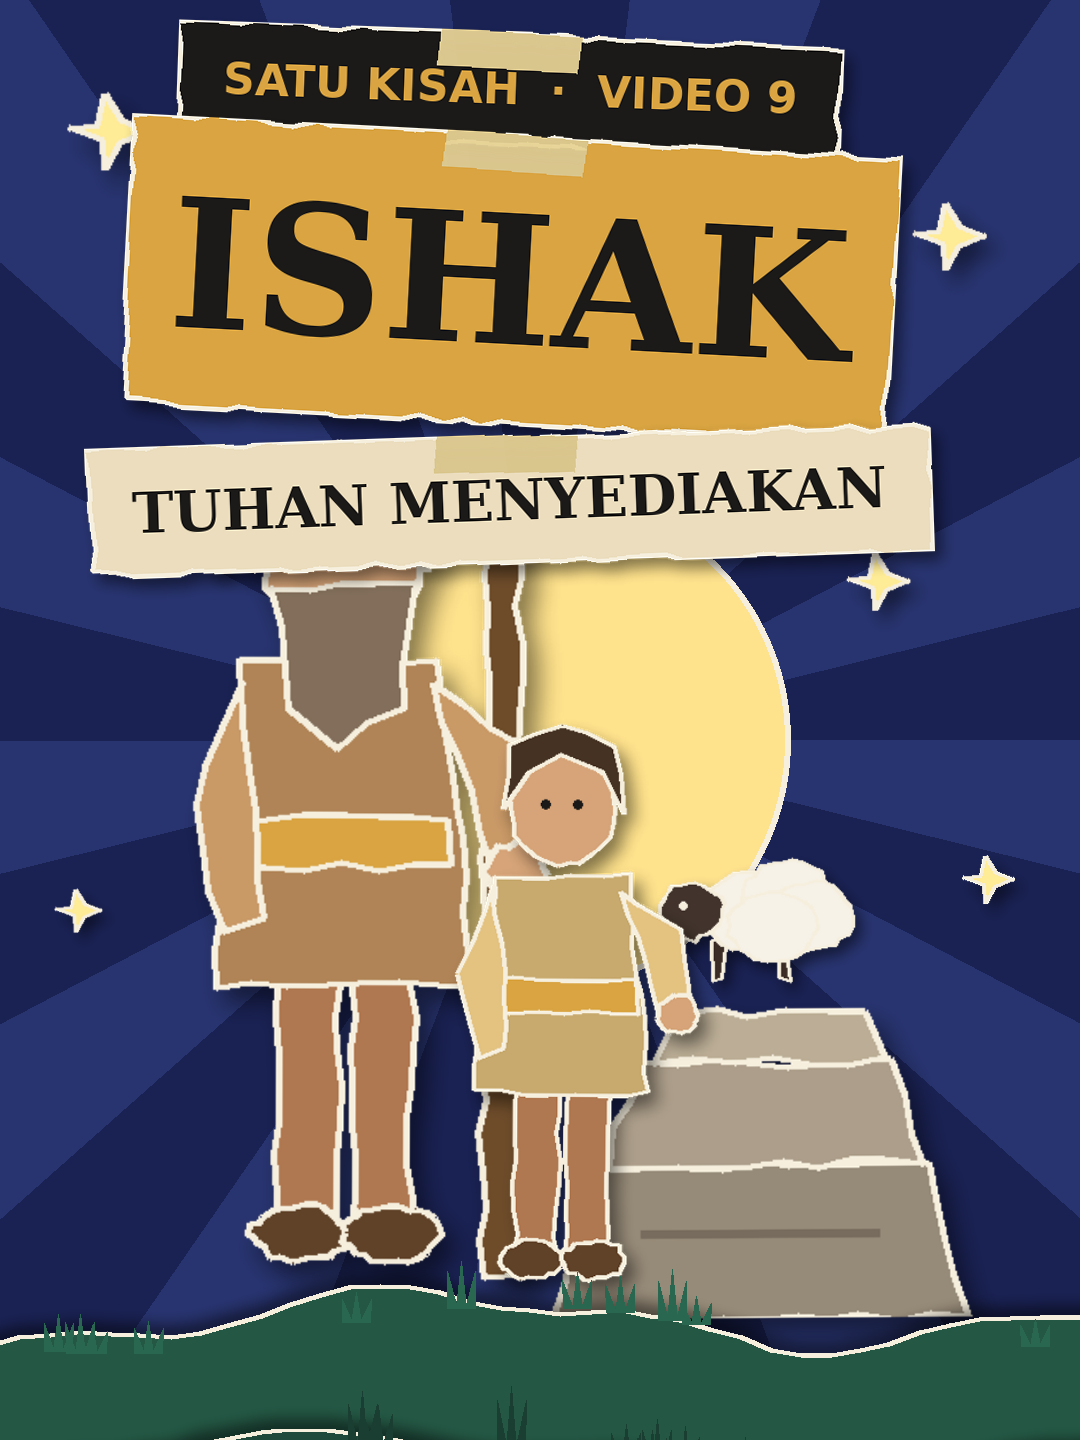
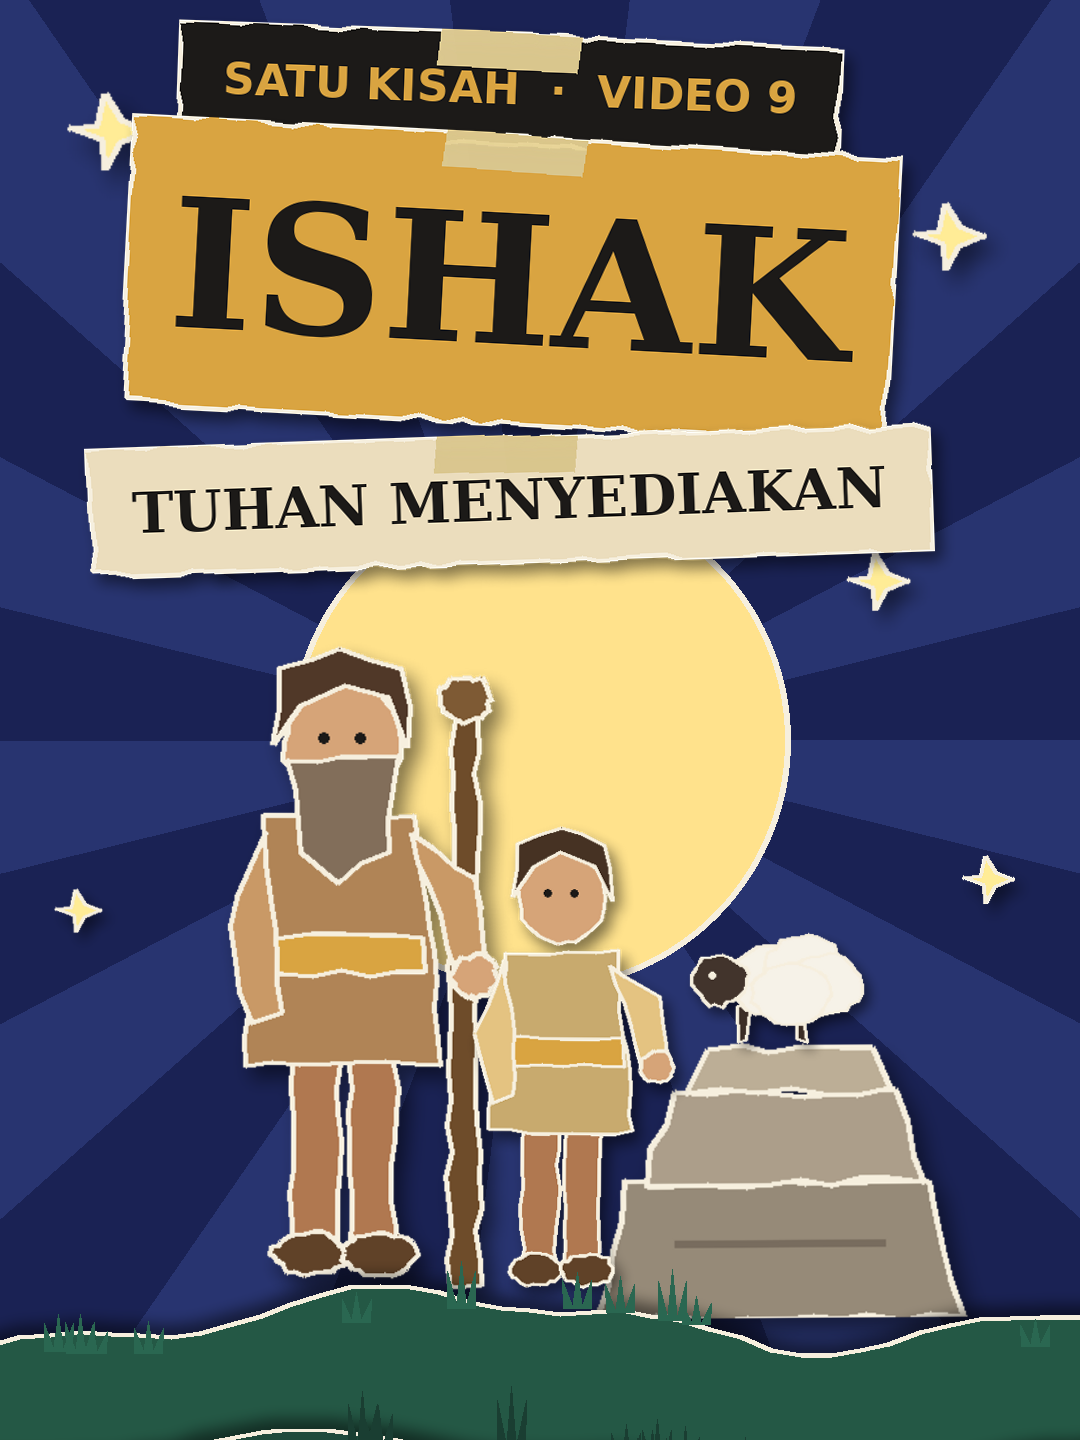
Thumbnail Video 9: tokoh lebih kecil, wajah tidak tertutup label
Claude-Session: https://claude.ai/code/session_016quGno62uAjQKHT4bAYPTR

Changed region(s): [[0.1833, 0.375, 0.9167, 0.9062]]

diff --git a/studio/antrian/09-ishak/gen_spec.py b/studio/antrian/09-ishak/gen_spec.py
@@ -56,7 +56,7 @@ spec={"meta":{"tokoh":"Ishak","video_no":9,"tag":"TOKOH ALKITAB  ·  VIDEO 9","a
  "scenes":scenes,"sprites":sprites,
  "thumbnail":{"bg":[26,34,84],"foreground":{"color":[40,96,76],"kind":"grass","y":1560},"layers":[dict(type="rays",center=[540,980],colors=[[40,52,112],[26,34,84]],n=26,speed=0.0),dict(type="disc",center=[540,980],r=250,color=[255,226,140])]+
    [actor("bintang",x,y,s_) for x,y,s_ in [(110,420,1.6),(950,520,1.4),(220,820,1.0),(880,860,1.2),(80,1180,0.9),(990,1150,1.0),(300,520,0.8),(760,420,0.9)]]+[
-   actor("mezbah",760,1560,1.7),actor("sheep",760,1230,1.3),actor("person",340,1560,1.7,ABRAM),actor("person",560,1560,1.15,ISHAK),
+   actor("mezbah",780,1560,1.5),actor("sheep",780,1290,1.15),actor("person",340,1560,1.3,ABRAM),actor("person",560,1560,0.95,ISHAK),
    dict(type="label",text="SATU KISAH  ·  VIDEO 9",x=510,y=330,t=0,style="tag",size=44,angle=-2),dict(type="label",text="ISHAK",x=510,y=520,t=0,style="gold",size=180,angle=-3),dict(type="label",text="TUHAN MENYEDIAKAN",x=510,y=740,t=0,style="paper",size=76,angle=2)]}}
 json.dump(spec,open("spec.json","w",encoding="utf-8"),ensure_ascii=False,indent=1)
 print("ok",len(scenes))
